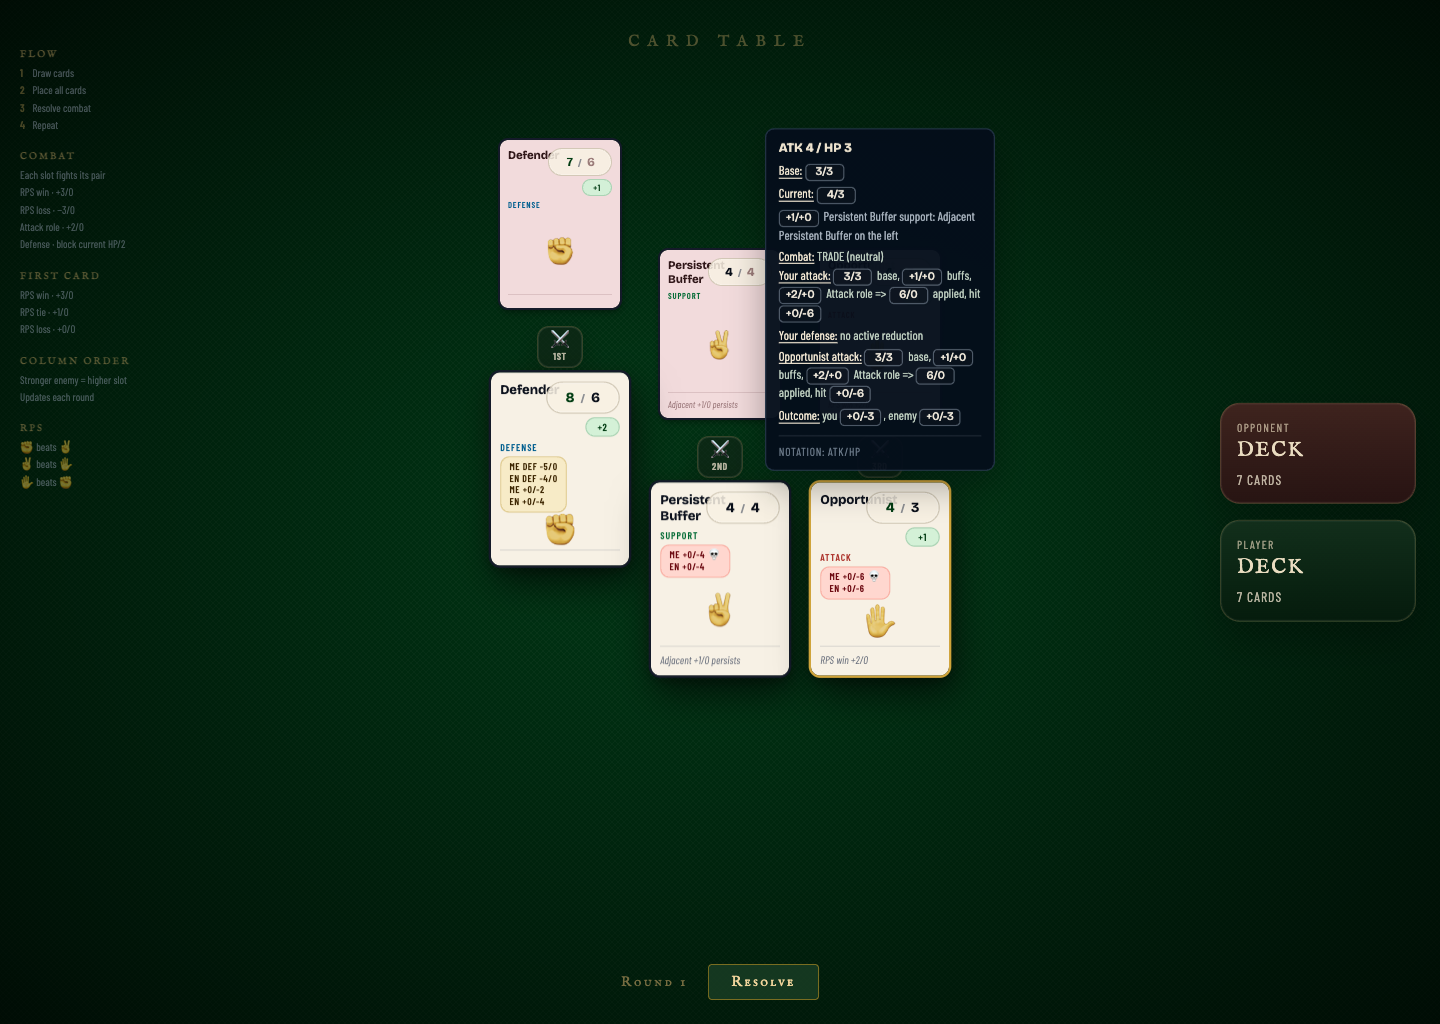
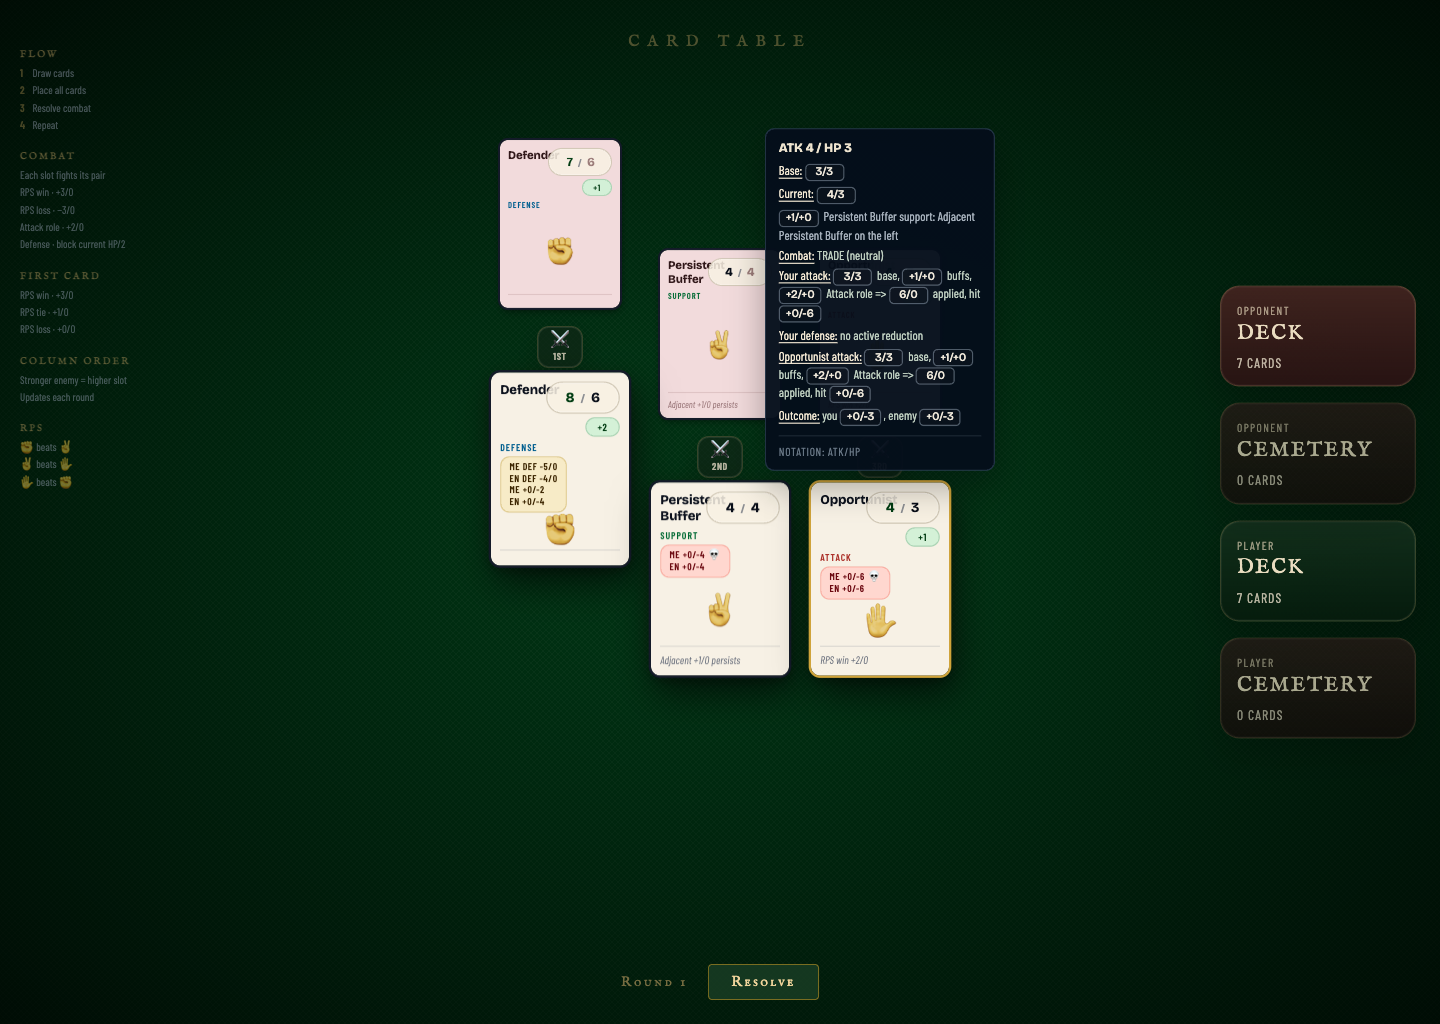
cemetery

Changed region(s): [[0.8438, 0.2812, 1.0, 0.5], [0.8438, 0.625, 1.0, 0.7188]]

diff --git a/js/main.js b/js/main.js
@@ -148,6 +148,7 @@ function findPlayerCardById(cardId) {
     ...gameState.playerHand,
     ...gameState.playerBoard,
     ...gameState.playerDeck,
+    ...gameState.playerCemetery,
   ]
 
   return playerCards.find((card) => card?.id === cardId) ?? null
@@ -157,6 +158,7 @@ function findEnemyCardById(cardId) {
   const enemyCards = [
     ...gameState.enemyBoard,
     ...gameState.enemyDeck,
+    ...gameState.enemyCemetery,
   ]
 
   return enemyCards.find((card) => card?.id === cardId) ?? null
@@ -396,8 +398,10 @@ function updateDeckButton(buttonId, countId, deckSize) {
 }
 
 function renderDeckButtons() {
-  updateDeckButton('player-deck-button', 'player-deck-count', gameState.playerDeck.length)
   updateDeckButton('enemy-deck-button', 'enemy-deck-count', gameState.enemyDeck.length)
+  updateDeckButton('enemy-cemetery-button', 'enemy-cemetery-count', gameState.enemyCemetery.length)
+  updateDeckButton('player-deck-button', 'player-deck-count', gameState.playerDeck.length)
+  updateDeckButton('player-cemetery-button', 'player-cemetery-count', gameState.playerCemetery.length)
 }
 
 function createDeckListItem(card, index) {
@@ -442,17 +446,29 @@ function createDeckListItem(card, index) {
   return item
 }
 
-function showDeckOverlay(ownerLabel, deck) {
+function showDeckOverlay(ownerLabel, deck, options = {}) {
+  const {
+    collectionLabel = 'Deck',
+    description = `${formatDeckCount(deck.length)} remaining in draw order.`,
+    emptyMessage = 'This deck is empty.',
+    note = '',
+  } = options
+
+  const noteMarkup = note
+    ? `<div class="deck-overlay__note">${note}</div>`
+    : ''
+
   showOverlay(
     '<div class="overlay-content overlay-content--deck" role="dialog" aria-modal="true" aria-labelledby="deck-overlay-title">' +
     '<div class="deck-overlay__header">' +
     '<div>' +
     `<div class="deck-overlay__eyebrow">${ownerLabel}</div>` +
-    `<h2 id="deck-overlay-title">${ownerLabel} Deck</h2>` +
-    `<p>${formatDeckCount(deck.length)} remaining in draw order.</p>` +
+    `<h2 id="deck-overlay-title">${ownerLabel} ${collectionLabel}</h2>` +
+    `<p>${description}</p>` +
     '</div>' +
     '<button id="deck-overlay-close" class="deck-overlay__close" type="button" aria-label="Close deck view">Close</button>' +
     '</div>' +
+    noteMarkup +
     '<div id="deck-overlay-list" class="deck-overlay__list"></div>' +
     '</div>'
   )
@@ -463,7 +479,7 @@ function showDeckOverlay(ownerLabel, deck) {
   if (deck.length === 0) {
     const empty = document.createElement('div')
     empty.className = 'deck-overlay__empty'
-    empty.textContent = 'This deck is empty.'
+    empty.textContent = emptyMessage
     list.appendChild(empty)
   } else {
     deck.forEach((card, index) => {
@@ -475,13 +491,32 @@ function showDeckOverlay(ownerLabel, deck) {
 }
 
 function bindDeckButtons() {
+  document.getElementById('enemy-deck-button')?.addEventListener('click', () => {
+    showDeckOverlay('Opponent', gameState.enemyDeck)
+  })
+
+  document.getElementById('enemy-cemetery-button')?.addEventListener('click', () => {
+    showDeckOverlay('Opponent', gameState.enemyCemetery, {
+      collectionLabel: 'Cemetery',
+      description: `${formatDeckCount(gameState.enemyCemetery.length)} lost so far.`,
+      emptyMessage: 'No enemy cards have been lost yet.',
+      note: 'Cards in the Cemetery are lost for this encounter set. Future mechanics may let you recover them.',
+    })
+  })
+
   document.getElementById('player-deck-button')?.addEventListener('click', () => {
     showDeckOverlay('Player', gameState.playerDeck)
   })
 
-  document.getElementById('enemy-deck-button')?.addEventListener('click', () => {
-    showDeckOverlay('Opponent', gameState.enemyDeck)
+  document.getElementById('player-cemetery-button')?.addEventListener('click', () => {
+    showDeckOverlay('Player', gameState.playerCemetery, {
+      collectionLabel: 'Cemetery',
+      description: `${formatDeckCount(gameState.playerCemetery.length)} lost so far.`,
+      emptyMessage: 'No cards have been lost yet.',
+      note: 'Cards in the Cemetery are lost for this run. Future mechanics may let you recover them.',
+    })
   })
+
 }
 
 // ── Round result handling ─────────────────────────────────────────────────────
@@ -905,9 +940,13 @@ function buildTextState() {
     phase: gameState.phase,
     round: gameState.round,
     playerDeckCount: gameState.playerDeck.length,
+    playerCemeteryCount: gameState.playerCemetery.length,
     enemyDeckCount: gameState.enemyDeck.length,
+    enemyCemeteryCount: gameState.enemyCemetery.length,
     playerDeck: gameState.playerDeck.map(serializeCardForText),
+    playerCemetery: gameState.playerCemetery.map(serializeCardForText),
     enemyDeck: gameState.enemyDeck.map(serializeCardForText),
+    enemyCemetery: gameState.enemyCemetery.map(serializeCardForText),
     playerHand: gameState.playerHand.map(serializeCardForText),
     playerBoard: gameState.playerBoard.map(serializeCardForText),
     enemyBoard: gameState.enemyBoard.map(serializeCardForText),

diff --git a/js/game.js b/js/game.js
@@ -14,9 +14,11 @@ export const gameState = {
 
   playerDeck: [],           // Card[] — cards not yet in hand or on board
   playerHand: [],           // Card[] — cards in hand (available to place)
+  playerCemetery: [],       // Card[] — permanently lost player cards
   playerBoard: [],          // (Card|null)[] — length = SLOT_COUNT
 
   enemyDeck: [],            // Card[] — enemy's remaining draw pile
+  enemyCemetery: [],        // Card[] — permanently lost enemy cards
   enemyBoard: [],           // (Card|null)[] — length = SLOT_COUNT
 
   placementOrder: [],       // Card[] — tracks order cards were placed (for first-card bonus)
@@ -40,6 +42,20 @@ function markCardAsGhost(card) {
   return card
 }
 
+function moveCardToPlayerCemetery(card) {
+  if (!card) return
+  clearBuffSourcesByScope(card, 'temporary')
+  syncCardBuffs(card)
+  gameState.playerCemetery.push(card)
+}
+
+function moveCardToEnemyCemetery(card) {
+  if (!card) return
+  clearBuffSourcesByScope(card, 'temporary')
+  syncCardBuffs(card)
+  gameState.enemyCemetery.push(card)
+}
+
 function expireExistingGhosts(board, existingGhostIds) {
   for (let slotIndex = 0; slotIndex < board.length; slotIndex += 1) {
     const card = board[slotIndex]
@@ -47,6 +63,15 @@ function expireExistingGhosts(board, existingGhostIds) {
 
     card.ghostBufferTurns = Math.max(0, (card.ghostBufferTurns ?? 0) - 1)
     if (card.ghostBufferTurns <= 0) {
+      if (board === gameState.playerBoard) {
+        card.ghostBuffer = false
+        card.ghostBufferTurns = 0
+        moveCardToPlayerCemetery(card)
+      } else if (board === gameState.enemyBoard) {
+        card.ghostBuffer = false
+        card.ghostBufferTurns = 0
+        moveCardToEnemyCemetery(card)
+      }
       board[slotIndex] = null
       continue
     }
@@ -84,6 +109,7 @@ function getAllCardsInState() {
     gameState.playerHand,
     gameState.playerBoard,
     gameState.enemyDeck,
+    gameState.enemyCemetery,
     gameState.enemyBoard,
   ]
 
@@ -223,8 +249,10 @@ export function syncDerivedState() {
 export function initRun() {
   gameState.playerDeck = shuffleDeck(createDeck())
   gameState.playerHand = []
+  gameState.playerCemetery = []
   gameState.playerBoard = Array(GAME.SLOT_COUNT).fill(null)
   gameState.enemyDeck = createEnemyDeck()
+  gameState.enemyCemetery = []
   gameState.enemyBoard = Array(GAME.SLOT_COUNT).fill(null)
   gameState.placementOrder = []
   gameState.rewardChoices = []
@@ -308,13 +336,16 @@ export function unplaceCard(slotIndex) {
 }
 
 /**
- * Returns true when all player slots are filled and combat can be triggered.
+ * Returns true when placement is complete and the player has no more moves.
+ * Combat can start either when all slots are filled or when the hand is empty.
  */
 export function canResolve() {
-  return (
-    gameState.phase === 'placement' &&
-    gameState.playerBoard.every(slot => slot !== null)
-  )
+  if (gameState.phase !== 'placement') return false
+
+  const allSlotsFilled = gameState.playerBoard.every((slot) => slot !== null)
+  const handIsEmpty = gameState.playerHand.length === 0
+
+  return allSlotsFilled || handIsEmpty
 }
 
 // ── Combat phase ──────────────────────────────────────────────────────────────
@@ -423,12 +454,22 @@ export function finalizeResolveRound(log = []) {
   for (let i = 0; i < GAME.SLOT_COUNT; i++) {
     const playerCard = gameState.playerBoard[i]
     if (playerCard?.hp <= 0 && !isGhostCard(playerCard)) {
-      gameState.playerBoard[i] = canPersistAsGhost(playerCard) ? markCardAsGhost(playerCard) : null
+      if (canPersistAsGhost(playerCard)) {
+        gameState.playerBoard[i] = markCardAsGhost(playerCard)
+      } else {
+        moveCardToPlayerCemetery(playerCard)
+        gameState.playerBoard[i] = null
+      }
     }
 
     const enemyCard = gameState.enemyBoard[i]
     if (enemyCard?.hp <= 0 && !isGhostCard(enemyCard)) {
-      gameState.enemyBoard[i] = canPersistAsGhost(enemyCard) ? markCardAsGhost(enemyCard) : null
+      if (canPersistAsGhost(enemyCard)) {
+        gameState.enemyBoard[i] = markCardAsGhost(enemyCard)
+      } else {
+        moveCardToEnemyCemetery(enemyCard)
+        gameState.enemyBoard[i] = null
+      }
     }
   }
 

diff --git a/index.html b/index.html
@@ -21,10 +21,22 @@
         <span id="enemy-deck-count" class="deck-button__count">0 cards</span>
       </button>
 
+      <button id="enemy-cemetery-button" class="deck-button deck-button--cemetery" type="button" aria-haspopup="dialog">
+        <span class="deck-button__eyebrow">Opponent</span>
+        <span class="deck-button__title">Cemetery</span>
+        <span id="enemy-cemetery-count" class="deck-button__count">0 cards</span>
+      </button>
+
       <button id="player-deck-button" class="deck-button deck-button--player" type="button" aria-haspopup="dialog">
         <span class="deck-button__eyebrow">Player</span>
         <span class="deck-button__title">Deck</span>
         <span id="player-deck-count" class="deck-button__count">0 cards</span>
+      </button>
+
+      <button id="player-cemetery-button" class="deck-button deck-button--cemetery" type="button" aria-haspopup="dialog">
+        <span class="deck-button__eyebrow">Player</span>
+        <span class="deck-button__title">Cemetery</span>
+        <span id="player-cemetery-count" class="deck-button__count">0 cards</span>
       </button>
     </div>
 

diff --git a/css/style.css b/css/style.css
@@ -168,6 +168,11 @@ body {
     linear-gradient(180deg, oklch(28% 0.05 152 / 0.92), oklch(20% 0.04 152 / 0.92));
 }
 
+.deck-button--cemetery {
+  background:
+    linear-gradient(180deg, oklch(24% 0.03 24 / 0.92), oklch(16% 0.025 16 / 0.92));
+}
+
 .deck-button--empty {
   opacity: 0.72;
 }
@@ -861,6 +866,19 @@ body {
   flex-direction: column;
   gap: 0.8rem;
   padding-right: 0.35rem;
+}
+
+.deck-overlay__note {
+  margin-bottom: 1rem;
+  padding: 0.95rem 1rem;
+  border-radius: 18px;
+  border: 1px solid oklch(72% 0.08 85 / 0.14);
+  background: oklch(18% 0.03 22 / 0.78);
+  font-family: 'Barlow Condensed', sans-serif;
+  font-size: 0.96rem;
+  line-height: 1.3;
+  letter-spacing: 0.03em;
+  color: oklch(90% 0.03 85 / 0.82);
 }
 
 .deck-overlay__empty {

diff --git a/tests/rps_browser_smoke.py b/tests/rps_browser_smoke.py
@@ -79,12 +79,16 @@ with sync_playwright() as playwright:
     assert page.locator(".column-fight-marker").count() == 3
     assert page.locator(".column-fight-marker__order").count() == 3
     assert page.locator("#btn-resolve").is_enabled() is False
-    assert page.locator("#player-deck-button").count() == 1
     assert page.locator("#enemy-deck-button").count() == 1
+    assert page.locator("#enemy-cemetery-button").count() == 1
+    assert page.locator("#player-deck-button").count() == 1
+    assert page.locator("#player-cemetery-button").count() == 1
 
     initial_state = get_text_state(page)
     assert initial_state["playerDeckCount"] == 7
+    assert initial_state["playerCemeteryCount"] == 0
     assert initial_state["enemyDeckCount"] == 7
+    assert initial_state["enemyCemeteryCount"] == 0
     assert [card["id"] for card in initial_state["playerDeck"]] != BASE_DECK_ORDER[:7]
     player_deck_count_text = page.locator("#player-deck-count").inner_text()
     enemy_deck_count_text = page.locator("#enemy-deck-count").inner_text()
@@ -104,6 +108,20 @@ with sync_playwright() as playwright:
     page.locator("#enemy-deck-button").click()
     assert page.locator("#deck-overlay-title").inner_text() == "Opponent Deck"
     assert page.locator(".deck-list-item").count() == 7
+    page.locator("#deck-overlay-close").click()
+    assert page.locator("#overlay.hidden").count() == 1
+
+    page.locator("#enemy-cemetery-button").click()
+    assert page.locator("#deck-overlay-title").inner_text() == "Opponent Cemetery"
+    assert page.locator(".deck-overlay__note").inner_text().startswith("Cards in the Cemetery are lost")
+    assert page.locator(".deck-overlay__empty").inner_text() == "No enemy cards have been lost yet."
+    page.locator("#deck-overlay-close").click()
+    assert page.locator("#overlay.hidden").count() == 1
+
+    page.locator("#player-cemetery-button").click()
+    assert page.locator("#deck-overlay-title").inner_text() == "Player Cemetery"
+    assert page.locator(".deck-overlay__note").inner_text().startswith("Cards in the Cemetery are lost")
+    assert page.locator(".deck-overlay__empty").inner_text() == "No cards have been lost yet."
     page.locator("#deck-overlay-close").click()
     assert page.locator("#overlay.hidden").count() == 1
 
